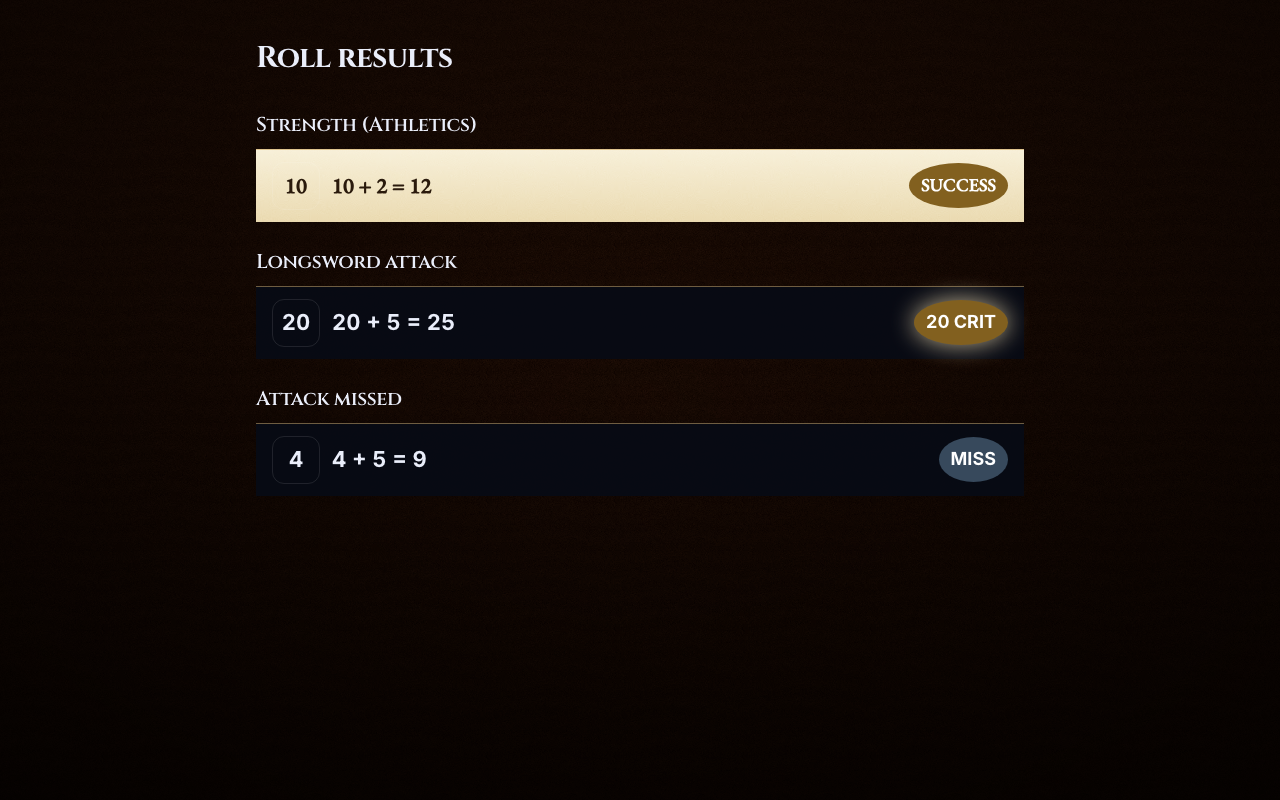
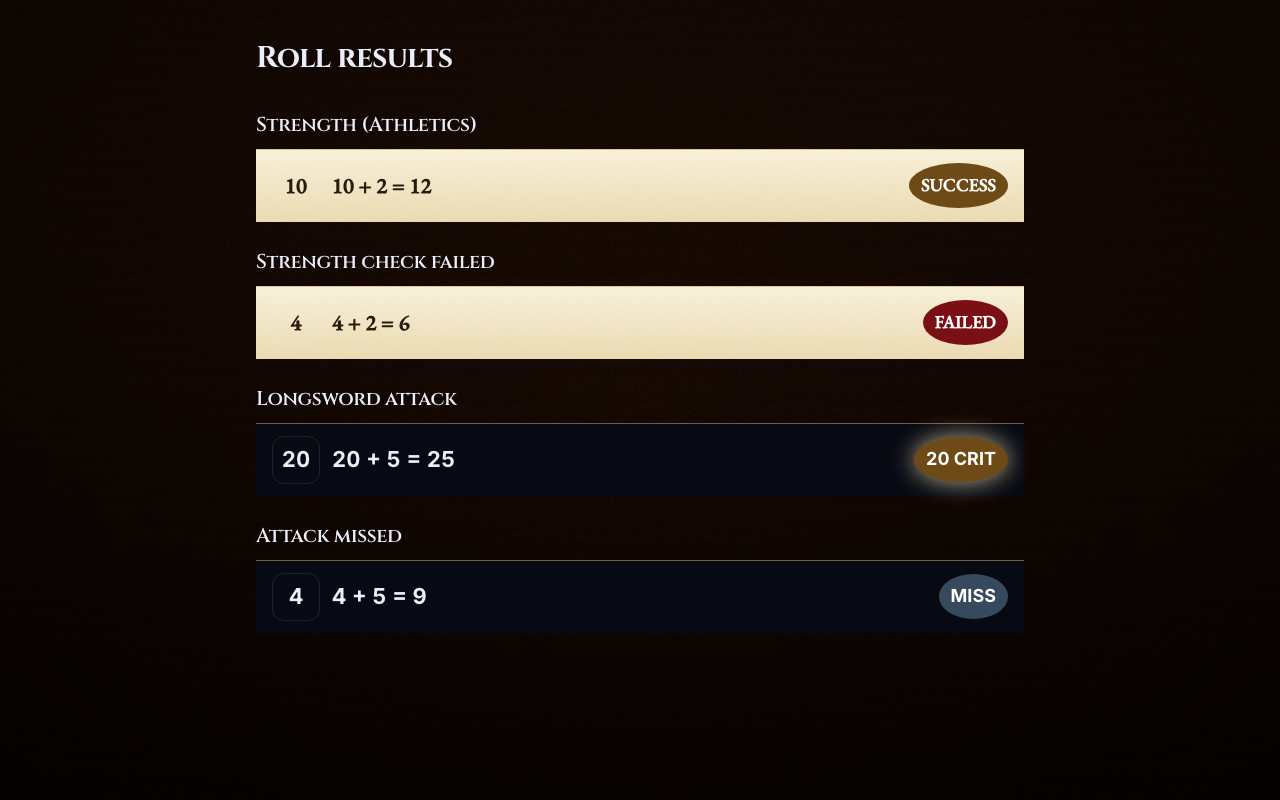
fix(table): preserve roll seal contrast

diff --git a/ai-adventure-scribe-main/src/components/game/DiceRollResultFlash.tsx b/ai-adventure-scribe-main/src/components/game/DiceRollResultFlash.tsx
@@ -31,22 +31,21 @@ export const DiceRollResultFlash: React.FC<DiceRollResultFlashProps> = React.mem
     const critical = outcome?.hit === true && outcome.isCritical === true;
     const waiting = tableLook && awaitingEngine && !outcome;
     const isCheck = outcome?.kind === 'check' || typeof checkSuccess === 'boolean';
-    const label =
-      outcome?.kind === 'check'
-        ? outcome.success
-          ? 'SUCCESS'
-          : 'FAILED'
-        : critical
-          ? outcome.d20 === 20
-            ? '20 CRIT'
-            : 'CRIT'
-          : outcome
-            ? outcome.hit
-              ? 'HIT'
-              : 'MISS'
-            : checkSuccess
-              ? 'SUCCESS'
-              : 'FAILED';
+    let label = checkSuccess ? 'SUCCESS' : 'FAILED';
+    let sealTone: 'gold' | 'red' | 'slate' = checkSuccess ? 'gold' : 'red';
+    if (outcome?.kind === 'check') {
+      label = outcome.success ? 'SUCCESS' : 'FAILED';
+      sealTone = outcome.success ? 'gold' : 'red';
+    } else if (outcome) {
+      label = critical ? (outcome.d20 === 20 ? '20 CRIT' : 'CRIT') : outcome.hit ? 'HIT' : 'MISS';
+      sealTone = critical ? 'gold' : outcome.hit ? 'red' : 'slate';
+    }
+    const sealBackground =
+      sealTone === 'gold'
+        ? '#6e4a16'
+        : sealTone === 'red'
+          ? 'var(--ir-wax-red-2)'
+          : 'var(--ir-wax-slate)';
     const signedModifier =
       shownModifier >= 0 ? `+ ${shownModifier}` : `- ${Math.abs(shownModifier)}`;
     return (
@@ -76,7 +75,8 @@ export const DiceRollResultFlash: React.FC<DiceRollResultFlashProps> = React.mem
           {(outcome || (tableLook && typeof checkSuccess === 'boolean')) && (
             <span
               data-testid="engine-roll-seal"
-              className={`ir-wax-seal ${critical ? 'ir-wax-seal--gold [body.ir-table-look_&]:shadow-[0_0_24px_rgba(246,227,184,0.75)]' : outcome ? (outcome.kind === 'check' ? (outcome.success ? 'ir-wax-seal--gold' : 'ir-wax-seal--red') : outcome.hit ? 'ir-wax-seal--red' : 'ir-wax-seal--slate') : checkSuccess ? 'ir-wax-seal--gold' : 'ir-wax-seal--red'} ml-auto px-3 py-2 font-bold`}
+              className={`ir-wax-seal ir-wax-seal--${sealTone} ${critical ? '[body.ir-table-look_&]:shadow-[0_0_24px_rgba(246,227,184,0.75)]' : ''} ml-auto px-3 py-2 font-bold`}
+              style={tableLook ? { background: sealBackground } : undefined}
             >
               {label}
             </span>

diff --git a/ai-adventure-scribe-main/e2e/table-roll-seal.spec.ts b/ai-adventure-scribe-main/e2e/table-roll-seal.spec.ts
@@ -21,6 +21,35 @@ for (const width of [1280, 390]) {
     await expect(
       page.getByLabel('Missed engine attack').getByTestId('engine-roll-seal'),
     ).toHaveText('MISS');
+    const sections = ['Resolved narrative check', 'Failed narrative check', 'Missed engine attack'];
+    for (const section of sections) {
+      const ratio = await page
+        .getByLabel(section)
+        .getByTestId('engine-roll-seal')
+        .evaluate((element) => {
+          const css = getComputedStyle(element);
+          const luminance = (color: string): number => {
+            const components = color
+              .match(/[\d.]+/g)
+              ?.slice(0, 3)
+              .map(Number);
+            if (!components || components.length !== 3)
+              throw new Error(`Unexpected color: ${color}`);
+            const channels = components
+              .map((value) => value / 255)
+              .map((value) =>
+                value <= 0.04045 ? value / 12.92 : ((value + 0.055) / 1.055) ** 2.4,
+              );
+            return 0.2126 * channels[0] + 0.7152 * channels[1] + 0.0722 * channels[2];
+          };
+          const foreground = luminance(css.color);
+          const background = luminance(css.backgroundColor);
+          return (
+            (Math.max(foreground, background) + 0.05) / (Math.min(foreground, background) + 0.05)
+          );
+        });
+      expect(ratio, `${section} seal contrast`).toBeGreaterThanOrEqual(7);
+    }
     expect(
       await page.evaluate(
         () => document.documentElement.scrollWidth <= document.documentElement.clientWidth,

diff --git a/ai-adventure-scribe-main/e2e/table-roll-seal.tsx b/ai-adventure-scribe-main/e2e/table-roll-seal.tsx
@@ -13,6 +13,10 @@ createRoot(document.getElementById('root')!).render(
         <h2 className="mb-2 text-xl">Strength (Athletics)</h2>
         <DiceRollResultFlash die={10} modifier={2} total={12} checkSuccess />
       </section>
+      <section aria-label="Failed narrative check">
+        <h2 className="mb-2 text-xl">Strength check failed</h2>
+        <DiceRollResultFlash die={4} modifier={2} total={6} checkSuccess={false} />
+      </section>
       <section aria-label="Resolved engine attack">
         <h2 className="mb-2 text-xl">Longsword attack</h2>
         <DiceRollResultFlash
